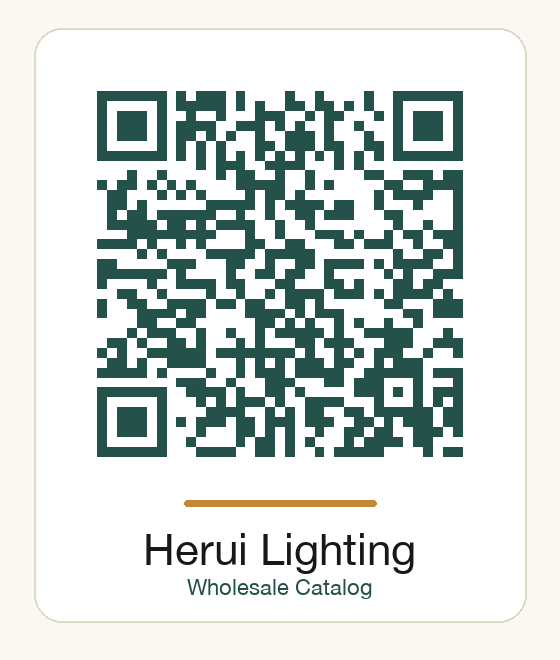
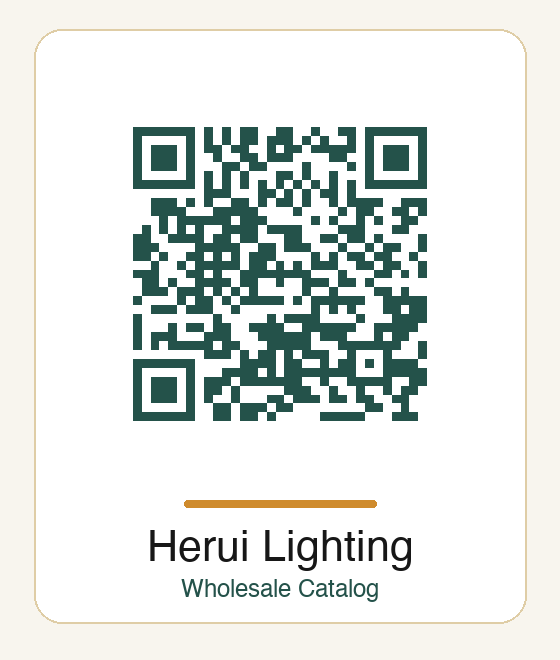
Launch Herui Lighting official domain

diff --git a/index.html b/index.html
@@ -10,20 +10,20 @@
     />
     <meta name="robots" content="index,follow,max-image-preview:large" />
     <meta name="theme-color" content="#24524a" />
-    <link rel="canonical" href="https://lcb0378.github.io/herui-lighting/" />
+    <link rel="canonical" href="https://heruilighting.com/" />
     <link rel="icon" href="./favicon.ico" sizes="any" />
     <link rel="icon" href="./favicon.svg" type="image/svg+xml" />
     <link rel="apple-touch-icon" href="./apple-touch-icon.png" />
     <link rel="manifest" href="./site.webmanifest" />
     <meta property="og:site_name" content="Herui Lighting" />
     <meta property="og:type" content="website" />
-    <meta property="og:url" content="https://lcb0378.github.io/herui-lighting/" />
+    <meta property="og:url" content="https://heruilighting.com/" />
     <meta property="og:title" content="Herui Lighting | Wholesale Decorative Lighting Catalog" />
     <meta
       property="og:description"
       content="Source-tracked wholesale lighting catalog with 1,100+ selected SKUs, hidden public pricing and quote-cart support for global project buyers."
     />
-    <meta property="og:image" content="https://lcb0378.github.io/herui-lighting/og-image.jpg" />
+    <meta property="og:image" content="https://heruilighting.com/og-image.jpg" />
     <meta property="og:image:width" content="1200" />
     <meta property="og:image:height" content="630" />
     <meta property="og:image:alt" content="Herui Lighting wholesale decorative lighting catalog preview" />
@@ -33,18 +33,18 @@
       name="twitter:description"
       content="Decorative lighting catalog for global wholesale buyers, project purchasing teams, importers and contractors."
     />
-    <meta name="twitter:image" content="https://lcb0378.github.io/herui-lighting/og-image.jpg" />
+    <meta name="twitter:image" content="https://heruilighting.com/og-image.jpg" />
     <script type="application/ld+json">
       {
         "@context": "https://schema.org",
         "@graph": [
           {
             "@type": "Organization",
-            "@id": "https://lcb0378.github.io/herui-lighting/#organization",
+            "@id": "https://heruilighting.com/#organization",
             "name": "Herui Lighting",
             "alternateName": "中山市赫瑞照明有限公司",
-            "url": "https://lcb0378.github.io/herui-lighting/",
-            "logo": "https://lcb0378.github.io/herui-lighting/logo-herui.svg",
+            "url": "https://heruilighting.com/",
+            "logo": "https://heruilighting.com/logo-herui.svg",
             "contactPoint": {
               "@type": "ContactPoint",
               "contactType": "sales",
@@ -54,21 +54,21 @@
           },
           {
             "@type": "WebSite",
-            "@id": "https://lcb0378.github.io/herui-lighting/#website",
+            "@id": "https://heruilighting.com/#website",
             "name": "Herui Lighting Wholesale Catalog",
-            "url": "https://lcb0378.github.io/herui-lighting/",
+            "url": "https://heruilighting.com/",
             "publisher": {
-              "@id": "https://lcb0378.github.io/herui-lighting/#organization"
+              "@id": "https://heruilighting.com/#organization"
             },
             "inLanguage": "en"
           },
           {
             "@type": "CollectionPage",
-            "@id": "https://lcb0378.github.io/herui-lighting/#catalog",
+            "@id": "https://heruilighting.com/#catalog",
             "name": "Herui Lighting Wholesale Decorative Lighting Catalog",
-            "url": "https://lcb0378.github.io/herui-lighting/",
+            "url": "https://heruilighting.com/",
             "isPartOf": {
-              "@id": "https://lcb0378.github.io/herui-lighting/#website"
+              "@id": "https://heruilighting.com/#website"
             },
             "about": [
               "Chandeliers",
@@ -210,7 +210,7 @@
         </div>
         <div class="mobile-qr-card">
           <p class="eyebrow">Mobile catalog QR</p>
-          <img src="./mobile-catalog-qr-herui.png?v=20260811-branded-qr" alt="Herui Lighting branded QR code linking to the catalog website" />
+          <img src="./mobile-catalog-qr-herui.png?v=20260902-official-domain" alt="Herui Lighting branded QR code linking to the catalog website" />
           <h2>Scan to open on phone.</h2>
           <p>
             Buyers scan this QR code to open the same catalog website on a
@@ -423,8 +423,8 @@
       </section>
     </div>
 
-    <script src="./inquiry-config.js?v=20260804-inquiry-receiver-ready"></script>
+    <script src="./inquiry-config.js?v=20260902-official-domain"></script>
     <script src="./data.js?v=20260902-led-strip-reclass"></script>
-    <script src="./app.js?v=20260902-specific-product-names"></script>
+    <script src="./app.js?v=20260902-official-domain"></script>
   </body>
 </html>

diff --git a/app.js b/app.js
@@ -81,7 +81,7 @@ const contactForm = document.querySelector("#contactForm");
 const inquiryConfig = window.HERUI_INQUIRY_CONFIG || {};
 const inquiryBrand = inquiryConfig.brand || "Herui Lighting";
 const inquirySchemaVersion = inquiryConfig.schemaVersion || "herui-inquiry-v1";
-const inquirySource = inquiryConfig.source || "github-pages-catalog";
+const inquirySource = inquiryConfig.source || "cloudflare-pages-catalog";
 const contactEmail = inquiryConfig.receiverEmail || inquiryConfig.fallbackEmail || "sales@heruilighting.com";
 const inquiryEndpoint = inquiryConfig.endpoint || window.HERUI_INQUIRY_ENDPOINT || "";
 const copyCart = document.querySelector("#copyCart");

diff --git a/inquiry-config.js b/inquiry-config.js
@@ -1,7 +1,7 @@
 window.HERUI_INQUIRY_CONFIG = {
   brand: "Herui Lighting",
   schemaVersion: "herui-inquiry-v1",
-  source: "github-pages-catalog",
+  source: "cloudflare-pages-catalog",
   receiverEmail: "",
   fallbackEmail: "sales@heruilighting.com",
   endpoint: "",

diff --git a/docs/inquiry-receiver-setup.md b/docs/inquiry-receiver-setup.md
@@ -1,6 +1,6 @@
 # Herui Lighting Inquiry Receiver Setup
 
-This website is hosted on GitHub Pages, so the public site itself cannot run a private mail server or backend database. The catalog is now receiver-ready: quote cart submissions and Contact Us submissions can post complete JSON to a future receiver endpoint, while still falling back to email draft/copy/download when no endpoint is configured.
+This website is hosted on Cloudflare Pages from the connected GitHub repository. The public static site does not currently run a private mail server or inquiry database. The catalog is receiver-ready: quote cart submissions and Contact Us submissions can post complete JSON to a future receiver endpoint, while still falling back to email draft/copy/download when no endpoint is configured.
 
 ## Current Status
 
@@ -20,7 +20,7 @@ When the official receiving method is ready, update `inquiry-config.js`:
 window.HERUI_INQUIRY_CONFIG = {
   brand: "Herui Lighting",
   schemaVersion: "herui-inquiry-v1",
-  source: "github-pages-catalog",
+  source: "cloudflare-pages-catalog",
   receiverEmail: "official-receiving-email@example.com",
   fallbackEmail: "official-receiving-email@example.com",
   endpoint: "https://example.com/herui-inquiry-receiver"
@@ -43,11 +43,11 @@ Every request includes:
 {
   "schemaVersion": "herui-inquiry-v1",
   "brand": "Herui Lighting",
-  "source": "github-pages-catalog",
+  "source": "cloudflare-pages-catalog",
   "type": "quote-cart",
   "receiverEmail": "",
   "fallbackEmail": "sales@heruilighting.com",
-  "pageUrl": "https://lcb0378.github.io/herui-lighting/",
+  "pageUrl": "https://heruilighting.com/",
   "submittedAt": "2026-08-04T00:00:00.000Z",
   "messageText": "Human-readable inquiry text..."
 }
@@ -103,13 +103,13 @@ The future receiver should:
 - Forward `messageText` to the chosen receiving email.
 - Preserve the full JSON payload for audit or troubleshooting.
 - Include `inquiryId` in the email subject or first line.
-- Support CORS for `https://lcb0378.github.io` and the future official domain.
+- Support CORS for `https://heruilighting.com`, `https://www.heruilighting.com`, and the GitHub Pages fallback URL.
 - Return a `2xx` status only after the message is accepted.
 
 ## Testing Checklist
 
 1. Set a test `receiverEmail` and `endpoint` in `inquiry-config.js`.
-2. Open the GitHub Pages site with a fresh cache query string.
+2. Open the Cloudflare Pages site at `https://heruilighting.com/` with a fresh cache query string.
 3. Add at least one product to the cart.
 4. Fill buyer contact, destination, and project notes.
 5. Click `Submit quote list`.
